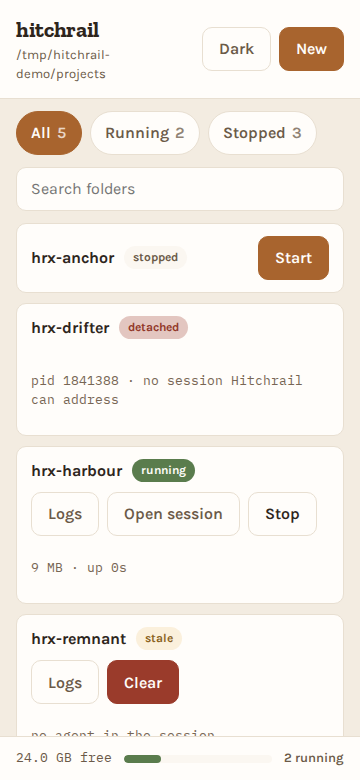
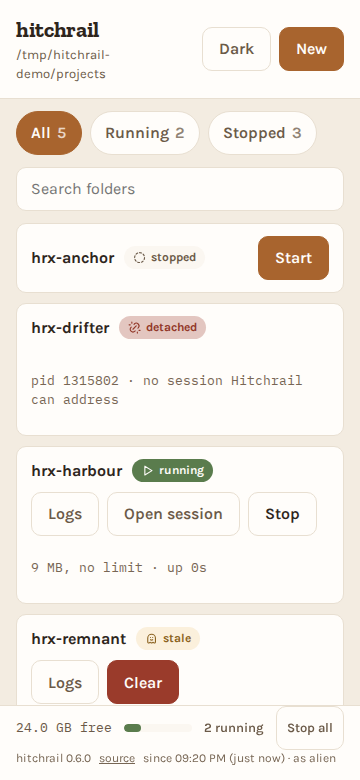
docs(roadmap): Phase 13 closes, done, its milestone empty
Twelve tasks landed and two bounded review loops ran over them; the
eleven findings were fixed as ordinary work before the close, so the
milestone closes with nothing open and nothing moved out. The plan
records the loops and where each stopped, and ticks its last boxes with
one honest note: the box that asked for the fifty row fixture under
task 75 named a page for one project, which does not depend on the row
count. Screenshots regenerated; the changelog carries the phase under
Unreleased.

Claude-Session: https://claude.ai/code/session_01EYofRDfBhZa5uRYwT1aA3W

diff --git a/docs/superpowers/plans/2026-09-12-hitchrail-phase-13-fifty-rows.md b/docs/superpowers/plans/2026-09-12-hitchrail-phase-13-fifty-rows.md
@@ -197,19 +197,37 @@ and no test had ever rendered it.
       the README. Nothing fetched off the machine, no service worker with the
       reason written down, and the wheel's asset check grows to include it.
 
+## Closed 2026-09-14, done
+
+Twelve tasks in five batches, all landed, each proved in the browser tier
+at the phone viewport and the ones the premortem named on the fifty row
+fixture. Then the review loop the earlier phases had not had: two loops,
+one over batches 1 to 4 (3 medium, 5 low in round 1; round 2 found four
+lows in round 1's fix and stopped at its bound) and one over batch 5
+(1 medium, 2 low; round 2 found a high in round 1's fix; round 3 found a
+low in round 2's fix, which tripped the wire). Eleven tickets came out of
+the loops, nine of them fixed as ordinary work before this close and two
+folded into the fixes, so the milestone closes empty. Two premortem
+rules fired during the work as designed: a third bar button grew the
+header and was refused, and a fifty row seed was the first thing built.
+
 ## Done looks like
 
-- [ ] Every task above is ticked, or is marked MOVED OUT with the issue that
+- [x] Every task above is ticked, or is marked MOVED OUT with the issue that
       carries it.
-- [ ] The fifty row fixture exists and tasks 71, 72, 73, 75 and 76 have a test
-      that runs against it at the phone viewport.
-- [ ] `docs/api.md` documents every field this phase added to the listing and
+- [x] The fifty row fixture exists and tasks 71, 72, 73, 75 and 76 have a test
+      that runs against it at the phone viewport. Met as written for 71, 73
+      and 76 and for 72's tap test; 72's keyboard test seeds three folders,
+      and 75's tests seed one, because a page for one project does not depend
+      on the row count. The box named 75 without allowing for that; ticked
+      with this note rather than rewritten to fit.
+- [x] `docs/api.md` documents every field this phase added to the listing and
       session payloads, and the round trip tests pass.
-- [ ] The premortem's four rules each have the assertion named below, in the
+- [x] The premortem's four rules each have the assertion named below, in the
       suite.
-- [ ] `uv run pytest -m screenshots` regenerated and committed, since the
+- [x] `uv run pytest -m screenshots` regenerated and committed, since the
       footer, the header, the chips and the badges all appear in them.
-- [ ] The roadmap's Phase 13 block says `state: done`, the milestone is closed,
+- [x] The roadmap's Phase 13 block says `state: done`, the milestone is closed,
       `scripts/check-phases.sh` is clean, and this plan has no unticked box
       without a marker.
 

diff --git a/CHANGELOG.md b/CHANGELOG.md
@@ -32,6 +32,49 @@ While the version is `0.y.z`, a breaking change may ship as a MINOR.
 
 ## Unreleased
 
+Phase 13: fifty rows on a phone. Upgrading is safe with no action. Four
+files are now served without a token, the mark and its manifest; nothing
+else about the boundary moves, and the argument is in `security.py`.
+
+### Added
+
+**Filter by root.** A strip of chips, one per root, present only with more
+than one root; chips OR together and AND with the state tab and the search;
+the selection survives a reload; the fixed footer says "10 of 50 shown"
+whenever a filter hides rows, and the empty state names the filter.
+
+**The search suggests.** Typing shows matching folders under the field, each
+naming its root, as an ARIA combobox: focus stays in the field, nothing is
+chosen by typing, Down, Up, Enter and Escape as the reference pattern says.
+Choosing is exact. The search now matches the folder, not the root label.
+
+**The header stays.** New, the tabs, the chips and the search are reachable
+at any scroll position; scrolled, the root line goes and the title shrinks.
+
+**Logs at a URL.** `GET /logs/<name>` shows one project's tail in a tab of
+its own, bookmarkable, polled rather than streamed, refusing a name exactly
+as the API does. The drawer stays and gains "Open in a tab"; on a desktop it
+is wide enough for eighty columns.
+
+**Stop all.** One control in the footer, composed from the stop each row has:
+one confirmation, the stops requested one at a time, one wait reporting per
+row, the bulk kill inside the wait as the escalation and never before a
+graceful attempt. A standalone Kill all was decided against.
+
+**The footer says which build this is, since when, and as whom**, and links
+to the source. A row's memory figure says what bounds it: "1.4 GB of 4 GB",
+or "no limit", read from the process's cgroup ancestry.
+
+**A mark, a favicon, a home screen tile and glyphs.** The badge words carry a
+shape beside them, seven Tabler icons vendored under MIT; the application
+has a mark of its own, a favicon, a touch icon and a manifest, so a tab and
+a home screen tile are no longer nameless.
+
+### Fixed
+
+**The logs routes answered a bare 500 for a stopped name whose root had
+been unmounted**; they say `root_unavailable` now, as the listing does.
+
 ## 0.6.0 - 2026-09-11
 
 Phase 11: the interface in every state. Upgrading is safe with no action.

diff --git a/docs/roadmap.md b/docs/roadmap.md
@@ -78,8 +78,13 @@ tickets stay, because each is the reason one badge lies; a third goes to its
 own phase or to Backlog.
 
 ## Phase: Phase 13: Fifty rows on a phone
-state: open
+state: done
 plan: docs/superpowers/plans/2026-09-12-hitchrail-phase-13-fifty-rows.md
+
+**Done, 2026-09-14.** Every task landed, reviewed in two bounded loops
+whose eleven findings were fixed as ordinary work before the close; the
+plan records the loops and where each stopped. The browser tier runs on a
+fifty row fixture now, which is the premortem's first rule made permanent.
 
 The interface stays usable when there are fifty projects across five roots,
 and says what it knows about each. Phase 11 is about states saying something
